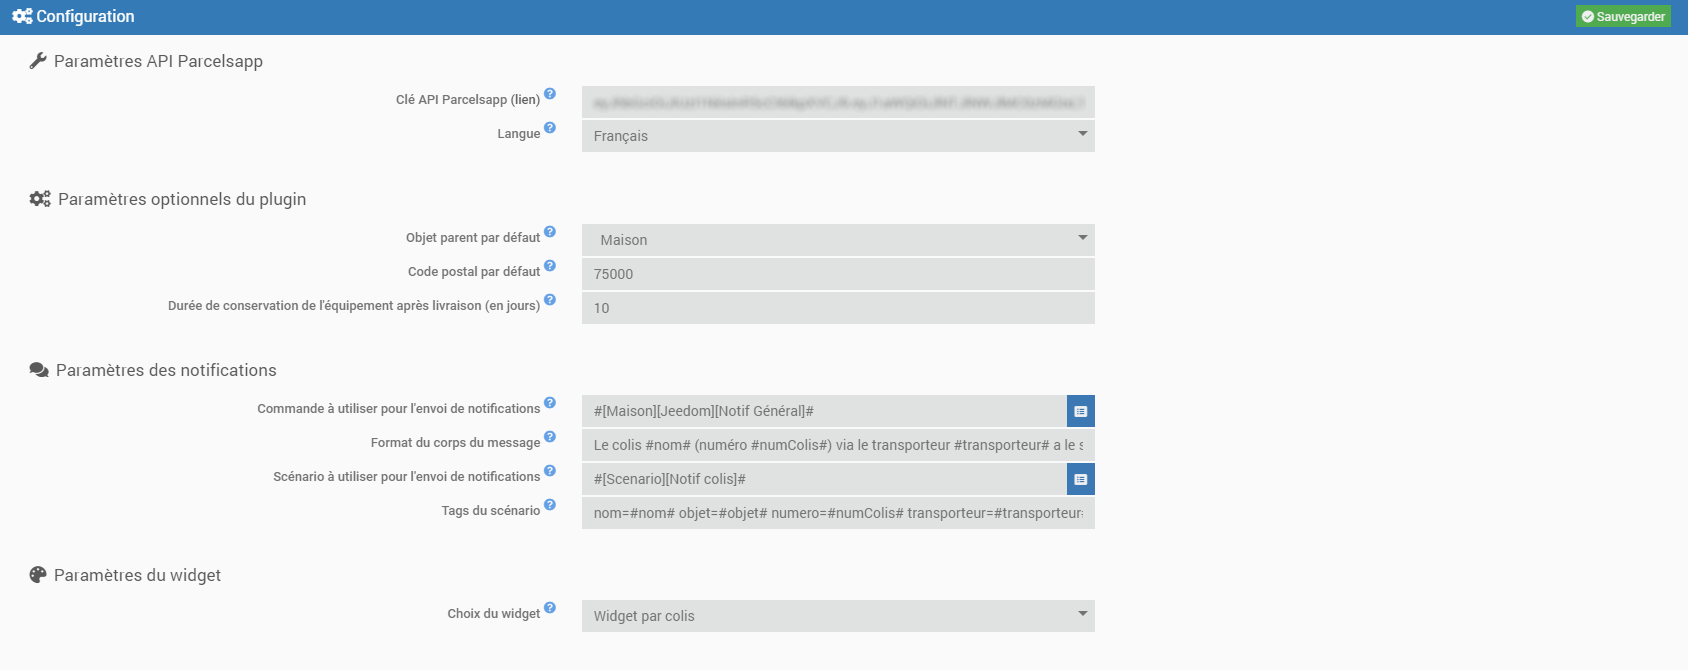
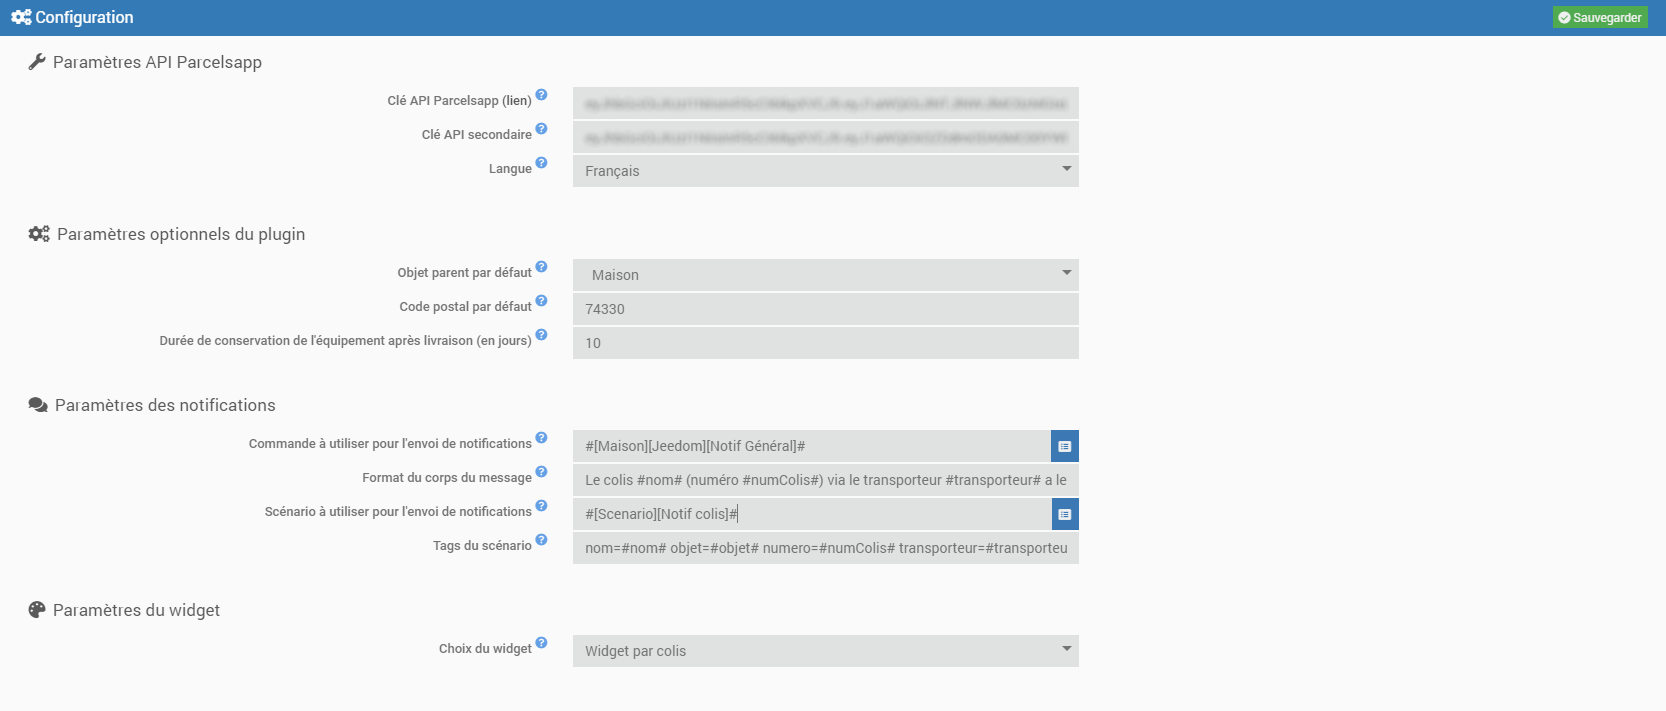
Update parcelTracking docs

diff --git a/parcelTracking/fr_FR/index.md b/parcelTracking/fr_FR/index.md
@@ -29,22 +29,23 @@ Le plugin s'installe comme n'importe quel autre plugin sur Jeedom, via le Market
 4. Allez sur votre dashboard et copiez la clé API
 5. Collez la clé API dans la configuration du plugin
 <br/><br/>![Dashboard parcelsapp](../images/dashboard_parcelsapp.png)<br/><br/>
-6. Renseignez la langue utilisée pour les retours API (français ou anglais) et les paramètres optionnels du plugin :
+6. Vous pouvez également renseigner une clé API secondaire pour le suivi de 10 colis supplémentaires 
+7. Renseignez la langue utilisée pour les retours API (français ou anglais) et les paramètres optionnels du plugin :
  - Objet parent par défaut ==> Ajout automatique de l'objet spécifié lors de la création de nouveaux suivis
  - Code postal par défaut ==> Ajout automatique du code postal du destinataire spécifié lors de la création de nouveaux suivis
  - Durée de conservation de l'équipement après livraison (en jours) ==> Suppression automatique de l'équipement X jours après sa livraison
-7. Renseignez les paramètres de notifications si vous souhaitez être informés à chaque changement de statut
+8. Renseignez les paramètres de notifications si vous souhaitez être informés à chaque changement de statut
  - Les 2 premières lignes concernent l'envoi des notifications via une commande action de type message 
    Option : vous pouvez personnaliser le message en utilisant les tags suivants : #nom#, #numColis#, #transporteur#, #statut#, #dernierEtat#, #date# et #heure#
  - Les 2 dernières lignes concernent l'envoi des notifications via un scénario
    Vous pouvez utiliser les tags suivants : #nom#, #objet#, #numColis#, #transporteur#, #statut#, #dernierEtat#, #date# et #heure#.
    Ils fonctionnent ainsi ; nomdusuivi=#nom# où nomdusuivi est le nom du tag et #nom# la valeur du tag
-8. Renseignez les paramètres du widget
+9. Renseignez les paramètres du widget
   3 choix possibles :
   - Aucun widget (vous recevrez uniquement les notifications)
   - Un widget par colis
   - Un widget unique pour l'ensemble des colis
-9. Sauvegardez
+10. Sauvegardez
 
 <br/>![Config parcelTracking](../images/config_parcelTracking.png)<br/>
 
@@ -56,7 +57,7 @@ Le plugin s'installe comme n'importe quel autre plugin sur Jeedom, via le Market
 # Utilisation
 1. Lancer le plugin qui se trouve dans la catégorie **Organisation** du menu **Plugins**
 2. Ajouter un colis, comme n'importe quel équipement sous Jeedom
-3. Indiquer le nom de votre colis puis renseigner le numéro de suivi, son pays et code postal de destination, sauf si les informations ont déjà été pré-remplies dans la configuration du plugin
+3. Indiquer le nom de votre colis puis renseigner le numéro de suivi, la clé API à utiliser (par défaut la principale), son pays et code postal de destination, sauf si les informations ont déjà été pré-remplies dans la configuration du plugin
 5. Sauvegarder
 6. Si vous ne souhaitez pas attendre l'actualisation automatique, vous pouvez la forcer en cliquant sur le bouton **Synchronisation**. Attention, lors de la synchronisation, aucune notification n'est envoyée.
 
@@ -95,6 +96,8 @@ Le plugin inclut 2 widgets personnalisés qui permettent d'afficher l'ensemble d
 
 ![widget global](../images/widget_global.png)
 
+Dans les 2 cas, vous avez la possibilité de supprimer les colis (icône <img src="../images/trash-solid.svg" width="15" height="15">) ou d'en ajouter un nouveau (icône <img src="../images/plus-solid.svg" width="15" height="15">) depuis les widgets directement.
+
 **Attention :** Le widget unique est visible sur la page des équipements du plugin. Il ne doit en aucun cas être supprimé. S'il l'est par erreur, il vous suffit de forcer une réinstallation du plugin (pas de perte des données) et celui-ci sera recréé.
 
 
@@ -117,8 +120,6 @@ Vous pouvez à tout moment utiliser la commande **Rafraichir** afin d'actualiser
 Ce plugin évoluera au fil du temps en fonction de vos demandes et des possibilités des API Parcelsapp.
 
 Les prochaines versions verront arriver les features suivantes :
-- Ajout d'une seconde clé API pour passage à 20 colis sur 30 jours glissants
-- Possibilité d'ajouter ou de supprimer un colis depuis le widget global
 - Traduction du plugin en anglais
 - ...
 
